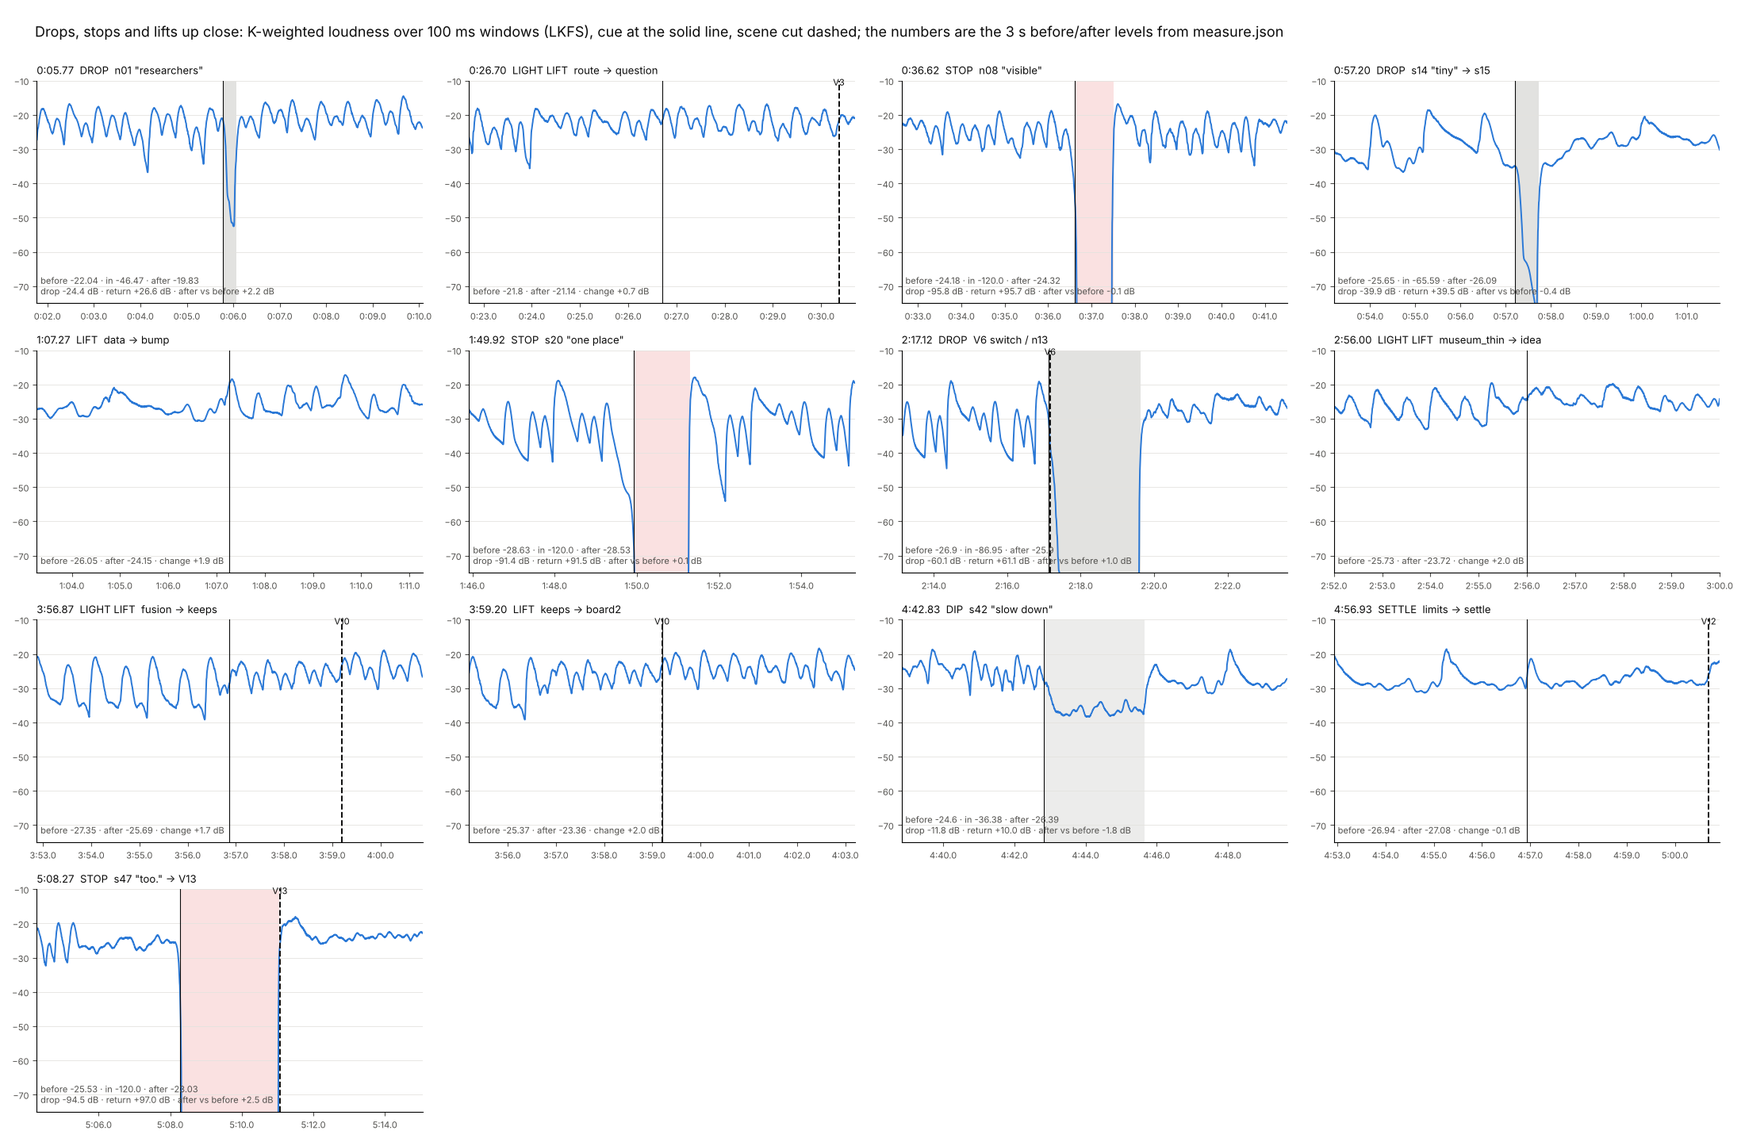
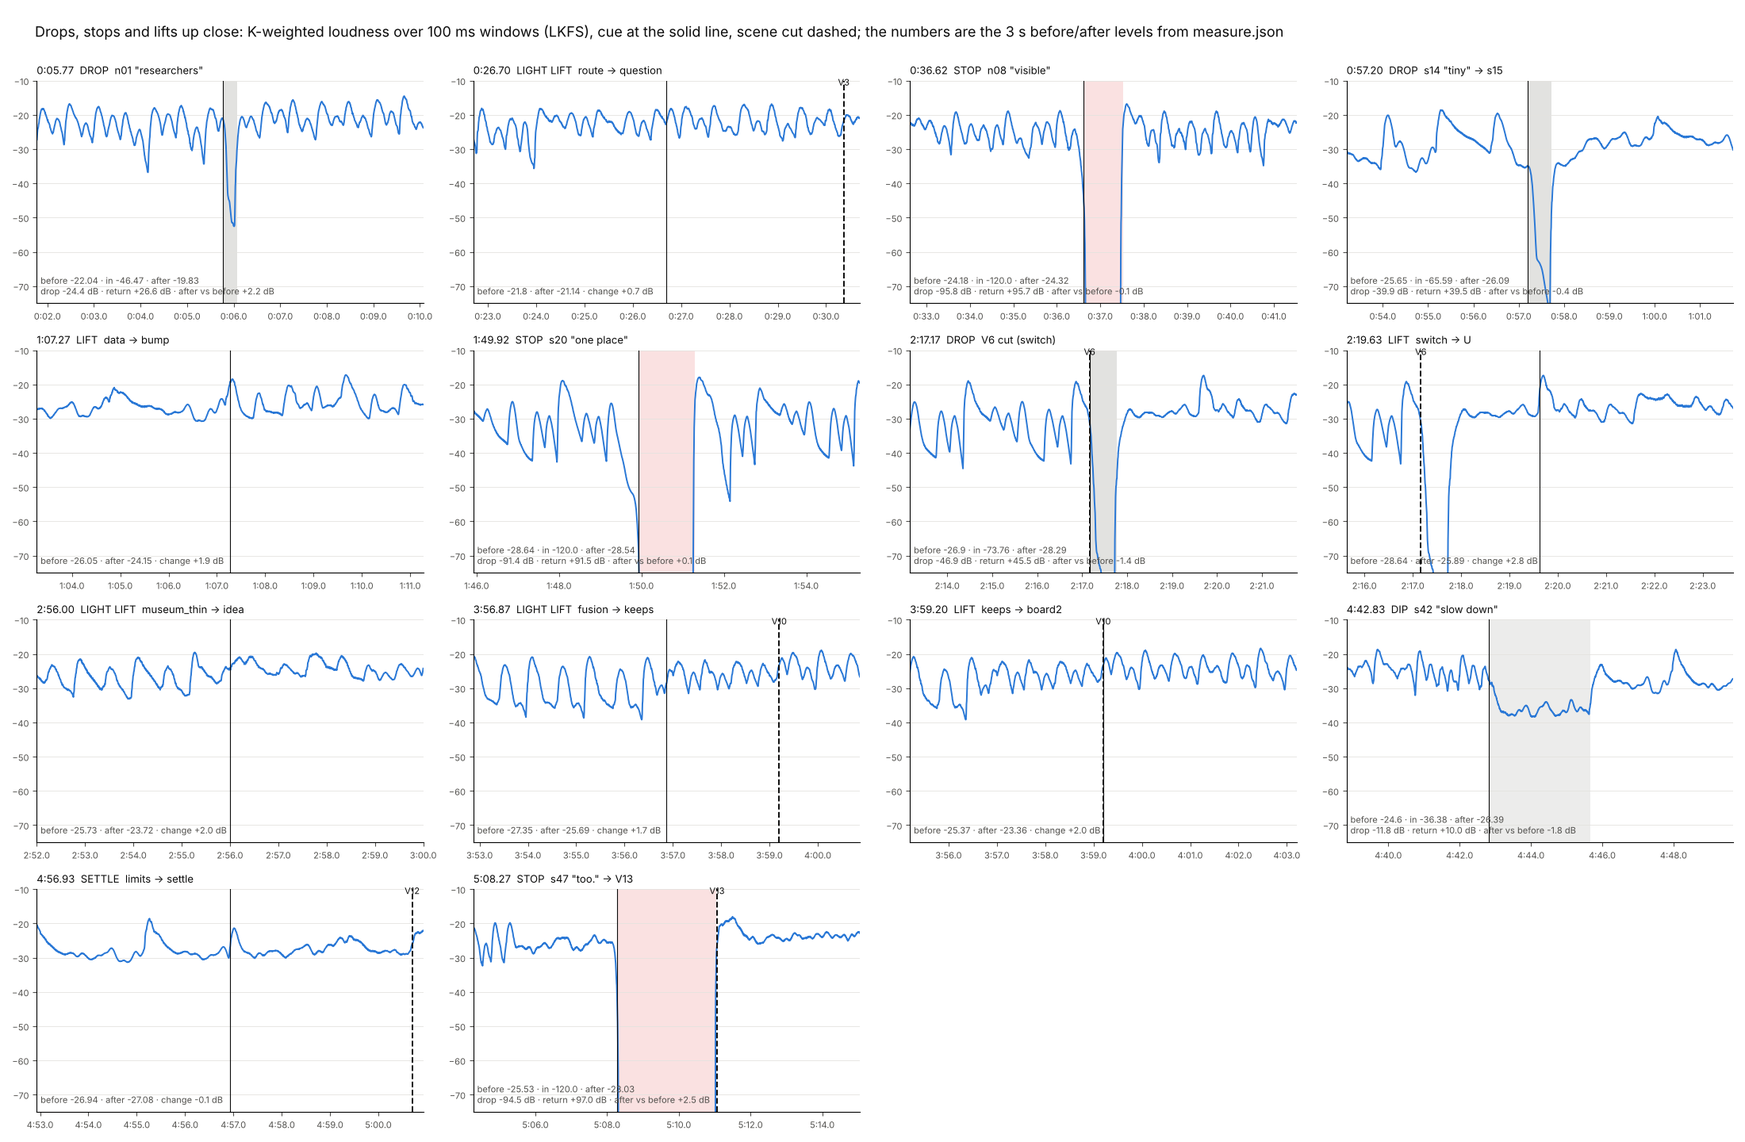
Video 02 v2: music bed, V6 switch is now a 0.6 s beat then a soft pad under n13 (U lift +2.75 LU over the pad)
Claude-Session: https://claude.ai/code/session_01NE6GWDq3cpF8KAJ9JYU8ZS

diff --git a/Future_Got_Weird/Video_02/tools/make_music_v02v2.py b/Future_Got_Weird/Video_02/tools/make_music_v02v2.py
@@ -13,7 +13,8 @@ lines of v2/SHOTPLAN_V2.md and the music paragraph of v2/REVISION_BRIEF.md.
   B  V3-V4   the pulse continues, lighter; complete stop for the duck on "visible", resumes on s11; thins under s14;
              a short drop from "tiny" into "This is real data", a modest lift on "zoom in to see", quiet under s16
   C  V5-V6   the quietest bed: clockwork-light, a small tick layer per arc; full stop for "one place" (J3b), resumes on
-             s21; near-silence on the switch ("And here's a real one."), a modest lift as the U resolves (s37 + hold)
+             s21; a near-silent beat (0.6 s) on the V6 switch, then a soft held pad under n13 ("And here's a real
+             one."), and a modest lift as the U resolves (s37 + hold)
   D  V7      a brisker variation of the pulse (Bb major, walking bass, 16th pickups); thins under s31; warm on n16
   E  V8-V9   a quieter bed under the fusion explanation; a small lift on "keeps up instead of smearing"
   F  V10-V11 a modest lift as the real board returns (n24); quiet under the conditions; a light, cautious mechanical
@@ -124,7 +125,9 @@ SEGMENTS = {
     'geometry': ('C', 'QUIETEST: clockwork-light marimba tick-tock, a pizzicato root, long bass; + a soft hat tick layer at '
                       'the first arc, + marimba off-beat pings at the second; FULL STOP for "one place", resumes on s21',
                  -8.0, 'bed'),
-    'hush_c': ('C', 'near-silence on the switch ("And here\'s a real one.")', None, 'drop'),
+    'hush_c': ('C', 'a near-silent beat (0.6 s) on the V6 switch', None, 'drop'),
+    'switch': ('C', 'a soft held Em9 pad under n13 "And here\'s a real one." (strings, one vibes note, low bass), a little '
+                    'under the C bed', -8.25, 'pad'),
     'U': ('C', 'MODEST LIFT as the U resolves: Cmaj7 -> Dsus -> Gadd9 on "U", guitar arpeggios, strings, vibes, tick; held '
                'through the hold into the museum', -5.5, 'lift'),
     'museum': ('D', 'brisker variation of the pulse (Bb major): walking bass, pizzicato 8ths, marimba 16th pickups, shaker '
@@ -148,7 +151,8 @@ SEGMENTS = {
                      'Dadd9), fades to exactly zero at the last sample', -2.5, 'bed'),
 }
 # reveal lifts: (lift, bed it rises from, bed after it or None when the next section starts)
-LIFTS = [('board', 'pulse', 'route'), ('bump', 'data', 'clue'), ('U', 'geometry', None), ('board2', 'keeps', 'conditions')]
+# (the U also rises +2.5 LU over the C bed it follows, reported as 'also over')
+LIFTS = [('board', 'pulse', 'route'), ('bump', 'data', 'clue'), ('U', 'switch', None, 'geometry'), ('board2', 'keeps', 'conditions')]
 LIGHT_LIFTS = [('question', 'route'), ('idea', 'museum_thin'), ('keeps', 'fusion')]
 SECTIONS = {'A': ('V1', 'V2'), 'B': ('V3', 'V4'), 'C': ('V5', 'V6'), 'D': ('V7', 'V7'), 'E': ('V8', 'V9'),
             'F': ('V10', 'V11'), 'G': ('V12', 'V13')}
@@ -263,7 +267,8 @@ def plan(tl):
     for v in sc:
         cue[v] = S(v)
     hb_a = min(max(cue['tiny'], cue['s15'] - 0.8), cue['s15'] - 0.3)   # drop from "tiny" (0.3-0.8 s long)
-    hc_a = min(S('V6'), cue['n13']) - 0.05                             # near-silence from the switch
+    hc_a = S('V6')                                                     # a near-silent beat from the switch...
+    hc_b = min(hc_a + BEAT, cue['s37'] - 0.5)                          # ...then a soft pad under n13 until s37
     dip_a = cue['slow'] - 0.2
     seg_bounds = [
         ('pulse', 0.0, cue['researchers'] - 0.3),
@@ -278,7 +283,8 @@ def plan(tl):
         ('bump', cue['zoom'], cue['s16']),
         ('clue', cue['s16'], S('V5')),
         ('geometry', S('V5'), hc_a),
-        ('hush_c', hc_a, cue['s37']),
+        ('hush_c', hc_a, hc_b),
+        ('switch', hc_b, cue['s37']),
         ('U', cue['s37'], S('V7')),
         ('museum', S('V7'), cue['s31']),
         ('museum_thin', cue['s31'], cue['idea']),
@@ -311,8 +317,9 @@ def plan(tl):
          'cue': 's14 "tiny" -> s15', 'label': 'B: short drop from "tiny" into "This is real data" (s15), soft re-entry'},
         {'id': 'j3b', 'kind': 'stop', 'a': cue['one_place'] - 0.25, 'b': cue['s21'] - 0.1, 'cue': 's20 "one place"',
          'label': 'C: full stop for "one place" (s20, J3b), resumes on s21'},
-        {'id': 'hush_c', 'kind': 'drop', 'a': hc_a, 'b': cue['s37'], 'depth_db': -22.0, 'down_s': 0.25, 'up_s': 0.4,
-         'cue': 'V6 switch / n13', 'label': 'C: near-silence on the switch, "And here\'s a real one." (n13); lift on s37'},
+        {'id': 'hush_c', 'kind': 'drop', 'a': hc_a, 'b': hc_b, 'depth_db': -22.0, 'down_s': 0.1, 'up_s': 0.3,
+         'cue': 'V6 cut (switch)', 'label': 'C: a near-silent beat (0.6 s) on the V6 switch, then a soft held pad under n13 '
+         '"And here\'s a real one."; the U lift starts on s37'},
         {'id': 'brake', 'kind': 'dip', 'a': dip_a, 'b': cue['s43'], 'depth_db': -8.0, 'down_s': 0.3, 'up_s': 0.3,
          'cue': 's42 "slow down"', 'label': 'F: the groove brakes on "slow down" (s42): held Fmaj7 at -8 dB until s43'},
         {'id': 'j4', 'kind': 'stop', 'a': cue['too'], 'b': S('V13') - 0.02, 'cue': 's47 "too." -> V13',
@@ -332,6 +339,7 @@ def plan(tl):
     pts.append((u, 'Gadd9'))
     overrides = {
         'U': pts,
+        'switch': [(hc_b, 'Em9')],
         'brake': [(dip_a, 'Fmaj7')],
         'settle': [(cue['n30'], 'Gm9'), (cue['not_safety'], 'Dm9')],
         'hold': [(cue['s47'], 'A7sus')],
@@ -612,6 +620,11 @@ def compose(P):
         elif name == 'limits':
             add('strings', t0, d + 0.05, up[0], 22)
             add('strings', t0, d + 0.05, up[2], 20)
+        elif name == 'switch':   # n13: a soft held pad between the beat on the cut and the U lift
+            for jj, v in ((0, 24), (2, 22), (3, 22)):
+                add('strings', t0, d + 0.05, up[jj], v)
+            add('vibes', t0 + 0.05, d, up[3] + 12, 16)
+            add('bass', t0, d, root, 24)
 
     # ---- a new segment's chord sounds on its cue: when the cue falls between bar lines, the bass takes the new root there
     # (the grid's own bass waits for the next beat or bar), so the music carries across every cut
@@ -823,7 +836,7 @@ def eq(name, x):
 
 # ------------------------------------------------------------------------------------------------------------ dynamics
 def seg_ramp(prev_db, cur_db, name):
-    if SEGMENTS[name][3] in ('lift', 'light lift') or cur_db > prev_db:
+    if SEGMENTS[name][3] in ('lift', 'light lift', 'pad') or cur_db > prev_db:
         return 0.3
     return 0.8
 
@@ -1029,12 +1042,13 @@ def measure(P, bed, meter, ev, scale_db, seg_db, ramps, stem_info, tl):
                               'gain_db': None if seg_db[idx] is None else round(seg_db[idx] + scale_db, 2),
                               'entry_ramp_s': round(ramps.get(idx, 0.0), 2)})
     m['lifts'] = []
-    for lift, before, after in LIFTS:
+    for lift, before, after, *also in LIFTS:
         d1 = round(lvl[lift] - lvl[before], 2)
         d2 = round(lvl[lift] - lvl[after], 2) if after else None
-        ok = LIFT_LU[0] - 0.05 <= d1 <= LIFT_LU[1] + 0.05 and (d2 is None or LIFT_LU[0] - 0.05 <= d2 <= LIFT_LU[1] + 0.05)
+        d3 = round(lvl[lift] - lvl[also[0]], 2) if also else None
+        ok = all(d is None or LIFT_LU[0] - 0.05 <= d <= LIFT_LU[1] + 0.05 for d in (d1, d2, d3))
         m['lifts'].append({'lift': lift, 'over': before, 'over_lu': d1, 'then': after, 'over_next_lu': d2,
-                           'within_1.5_to_3_LU': ok})
+                           'also_over': also[0] if also else None, 'also_over_lu': d3, 'within_1.5_to_3_LU': ok})
     m['light_lifts'] = [{'lift': lf, 'over': b, 'over_lu': round(lvl[lf] - lvl[b], 2)} for lf, b in LIGHT_LIFTS]
     # every cue: the bed just before and just after (ungated K-weighted, up to 3 s, clear of the ramps)
     cues = []
@@ -1292,8 +1306,13 @@ def write_notes(P, m, plan_out):
           're-entry ramps, relative to the reference. Levels are set by calibration (pyloudnorm, iterated on the gained bed).', '',
           '## Lifts', '', '| Lift | Over the bed before | LU | Over the bed after | LU | 1.5-3 LU |', '|---|---|---|---|---|---|']
     for x in m['lifts']:
-        L.append(f"| {x['lift']} | {x['over']} | {x['over_lu']:+.2f} | {x['then'] or '(next section)'} | "
-                 f"{'—' if x['over_next_lu'] is None else f'{x['over_next_lu']:+.2f}'} | {'yes' if x['within_1.5_to_3_LU'] else 'NO'} |")
+        after_txt = x['then'] or '(next section)'
+        after_lu = '—' if x['over_next_lu'] is None else f"{x['over_next_lu']:+.2f}"
+        if x.get('also_over'):
+            after_txt += f"; also over {x['also_over']}"
+            after_lu += f"; {x['also_over_lu']:+.2f}"
+        L.append(f"| {x['lift']} | {x['over']} | {x['over_lu']:+.2f} | {after_txt} | {after_lu} | "
+                 f"{'yes' if x['within_1.5_to_3_LU'] else 'NO'} |")
     for x in m['light_lifts']:
         L.append(f"| {x['lift']} (light) | {x['over']} | {x['over_lu']:+.2f} | | | |")
     L += ['', '## Drops, stops, dips and every cue', '',
@@ -1312,7 +1331,7 @@ def write_notes(P, m, plan_out):
             L.append(f"| {f(c['at'])} | {c['cue']} | {c['kind']} | {c['before_lkfs']} | | {c['after_lkfs']} | "
                      f"{'—' if c['change_db'] is None else f'{c['change_db']:+.1f}'} |")
     L += ['', 'drop = no new notes, the bed down 20-22 dB with a short down-ramp, then a re-entry ramp (0.12 s for the board '
-          'lift on "researchers", 0.8 s into s15, 0.4 s into the U); stop = notes released, the bed muted with an 80 ms ramp '
+          'lift on "researchers", 0.8 s into s15, 0.3 s into the n13 pad); stop = notes released, the bed muted with an 80 ms ramp '
           '(digital silence), resuming on the cue with the bass and pizzicato root; dip = the groove stops, one held chord '
           'at -8 dB.', '',
           '## Scene cuts', '', 'The pulse runs on one grid and every new segment\'s chord starts on its cue, so the music '
@@ -1336,7 +1355,8 @@ def write_notes(P, m, plan_out):
           's02 "sensor", n01 "researchers" (the real board), n09 "timing", s15 "zoom", s37 "U", the board\'s return (V10) '
           'and after the last word.',
           '- **Clockwork-light** (C): a marimba tick-tock and a pizzicato root; a hat tick from the first arc (s19), marimba '
-          'off-beat pings from the second (s20); Cmaj7 -> Dsus -> Gadd9 as the U resolves.',
+          'off-beat pings from the second (s20); a near-silent beat on the V6 switch, a soft held Em9 pad under n13, then '
+          'Cmaj7 -> Dsus -> Gadd9 as the U resolves.',
           '- **Museum** (D): the pulse as a walk in Bb major with 16th pickups; the v1 clarinet line answered by bassoon.',
           '- **Warehouse** (F): v1\'s cautious A-minor groove; it brakes to a held Fmaj7 on "slow down".',
           '- **Ending** (G): held A7sus under s47, digital silence for the J4 beat, then Dadd9 - Gmaj7/D - Dadd9 with harp.', '',
@@ -1380,7 +1400,7 @@ def segment_cue_names(P):
     c = {
         'pulse': 'frame 1', 'hush_a': 'n01 "researchers" - 0.3 s', 'board': 'n01 "researchers"', 'route': 'V2 cut',
         'question': 'n06 start', 'puzzle': 'V3 cut', 'thin': 'V4 cut', 'hush_b': 's14 "tiny"', 'data': 's15 start',
-        'bump': 's15 "zoom"', 'clue': 's16 start', 'geometry': 'V5 cut', 'hush_c': 'V6 cut (switch)', 'U': 's37 start',
+        'bump': 's15 "zoom"', 'clue': 's16 start', 'geometry': 'V5 cut', 'hush_c': 'V6 cut (switch)', 'switch': 'V6 cut + 0.6 s (under n13)', 'U': 's37 start',
         'museum': 'V7 cut', 'museum_thin': 's31 start', 'idea': 'n16 start', 'small': 'V8 cut', 'fusion': 'V9 cut',
         'keeps': 'n23 "keeps"', 'board2': 'V10 cut (n24)', 'conditions': 'n25 start', 'warehouse': 'V11 cut',
         'brake': 's42 "slow" - 0.2 s', 'limits': 's43 start', 'settle': 'n30 start', 'callback': 'V12 cut',
@@ -1483,7 +1503,9 @@ def main():
     for s in m['segments']:
         print(f"  {s['segment']:12s} {s['from']:7.2f}-{s['to']:7.2f} target {s['target_lu']} measured {s['level_lu']}")
     for x in m['lifts']:
-        print(f"  lift {x['lift']:7s} +{x['over_lu']} over {x['over']}, {x['over_next_lu']} over {x['then']}  ok={x['within_1.5_to_3_LU']}")
+        also = f", {x['also_over_lu']} over {x['also_over']}" if x.get('also_over') else ''
+        print(f"  lift {x['lift']:7s} +{x['over_lu']} over {x['over']}, {x['over_next_lu']} over {x['then']}{also}"
+              f"  ok={x['within_1.5_to_3_LU']}")
     for c in m['cues']:
         print(f"  cue {c['at']:7.2f} {c['kind']:10s} {c['cue']:28s} before {c['before_lkfs']} "
               + (f"inside {c['inside_lkfs']} after {c['after_lkfs']} silence={c['digital_silence']}" if 'to' in c

diff --git a/Future_Got_Weird/Video_02/audio/music/v02v2/MUSIC_NOTES.md b/Future_Got_Weird/Video_02/audio/music/v02v2/MUSIC_NOTES.md
@@ -12,7 +12,7 @@ Nobody has listened to this bed: this environment cannot play audio. Everything 
 |---|---|---|---|---|---|
 | A | V1-V2 | 0:00.00–0:30.37 | -21.4 LUFS | -1.4 | 0.2% / 0.7% |
 | B | V3-V4 | 0:30.37–1:16.10 | -24.7 LUFS | -4.7 | 0.2% / 2.4% |
-| C | V5-V6 | 1:16.10–2:26.20 | -27.5 LUFS | -7.5 | 0.6% / 3.2% |
+| C | V5-V6 | 1:16.10–2:26.20 | -27.4 LUFS | -7.4 | 0.6% / 3.2% |
 | D | V7 | 2:26.20–3:01.90 | -23.8 LUFS | -3.8 | 1.0% / 3.7% |
 | E | V8-V9 | 3:01.90–3:59.20 | -26.8 LUFS | -6.8 | 0.1% / 1.0% |
 | F | V10-V11 | 3:59.20–5:00.70 | -25.2 LUFS | -5.2 | 0.3% / 2.6% |
@@ -35,8 +35,9 @@ Reference (0 LU) = -20.0 LUFS in the delivered bed; whole bed -24.77 LUFS. Secti
 | data | B | s15 start | 0:57.73–1:07.27 | soft re-entry under s15: a string drone, one pizzicato per bar | -6.00 | -6.00 |
 | bump | B | s15 "zoom" | 1:07.27–1:11.60 | MODEST LIFT as the bump appears ("zoom in to see"): strings, vibes, rising marimba, flash-and-echo tick | -4.00 | -4.00 |
 | clue | B | s16 start | 1:11.60–1:16.10 | quiet under s16 | -5.75 | -5.75 |
-| geometry | C | V5 cut | 1:16.10–2:17.12 | QUIETEST: clockwork-light marimba tick-tock, a pizzicato root, long bass; + a soft hat tick layer at the first arc, + marimba off-beat pings at the second; FULL STOP for "one place", resumes on s21 | -8.00 | -8.00 |
-| hush_c | C | V6 cut (switch) | 2:17.12–2:19.63 | near-silence on the switch ("And here's a real one.") | — | — |
+| geometry | C | V5 cut | 1:16.10–2:17.17 | QUIETEST: clockwork-light marimba tick-tock, a pizzicato root, long bass; + a soft hat tick layer at the first arc, + marimba off-beat pings at the second; FULL STOP for "one place", resumes on s21 | -8.00 | -8.00 |
+| hush_c | C | V6 cut (switch) | 2:17.17–2:17.77 | a near-silent beat (0.6 s) on the V6 switch | — | — |
+| switch | C | V6 cut + 0.6 s (under n13) | 2:17.77–2:19.63 | a soft held Em9 pad under n13 "And here's a real one." (strings, one vibes note, low bass), a little under the C bed | -8.25 | -8.25 |
 | U | C | s37 start | 2:19.63–2:26.20 | MODEST LIFT as the U resolves: Cmaj7 -> Dsus -> Gadd9 on "U", guitar arpeggios, strings, vibes, tick; held through the hold into the museum | -5.50 | -5.50 |
 | museum | D | V7 cut | 2:26.20–2:51.00 | brisker variation of the pulse (Bb major): walking bass, pizzicato 8ths, marimba 16th pickups, shaker 16ths, stately strings; clarinet line answered by bassoon | -3.50 | -3.50 |
 | museum_thin | D | s31 start | 2:51.00–2:56.00 | thins under s31: pizzicato quarters, strings | -5.50 | -5.50 |
@@ -63,7 +64,7 @@ Measured LU: integrated loudness after the segment's entry ramp, outside drop/st
 |---|---|---|---|---|---|
 | board | pulse | +2.25 | route | +2.75 | yes |
 | bump | data | +2.00 | clue | +1.75 | yes |
-| U | geometry | +2.50 | (next section) | — | yes |
+| U | switch | +2.75 | (next section); also over geometry | —; +2.50 | yes |
 | board2 | keeps | +2.00 | conditions | +2.50 | yes |
 | question (light) | route | +1.25 | | | |
 | idea (light) | museum_thin | +1.50 | | | |
@@ -84,10 +85,11 @@ Short-window levels: ungated K-weighted loudness (LKFS, EBU short-term length) o
 | 0:57.20–0:57.73 (0.53 s) | s14 "tiny" -> s15 | drop | -25.65 | -65.59 | -26.09 | in -39.9, back +39.5 |
 | 1:07.27 | data -> bump | lift | -26.05 | | -24.15 | +1.9 |
 | 1:11.60 | bump -> clue | bed | -23.69 | | -25.11 | -1.4 |
-| 1:16.10 | clue -> geometry | bed | -25.9 | | -27.88 | -2.0 |
-| 1:49.92–1:51.30 (1.38 s) | s20 "one place" | stop | -28.63 | digital silence | -28.53 | after vs before +0.1 |
-| 2:17.12–2:19.63 (2.52 s) | V6 switch / n13 | drop | -26.9 | -86.95 | -25.9 | in -60.1, back +61.1 |
-| 2:26.20 | U -> museum | bed | -25.08 | | -24.54 | +0.5 |
+| 1:16.10 | clue -> geometry | bed | -25.9 | | -27.89 | -2.0 |
+| 1:49.92–1:51.30 (1.38 s) | s20 "one place" | stop | -28.64 | digital silence | -28.54 | after vs before +0.1 |
+| 2:17.17–2:17.77 (0.60 s) | V6 cut (switch) | drop | -26.9 | -73.76 | -28.29 | in -46.9, back +45.5 |
+| 2:19.63 | switch -> U | lift | -28.64 | | -25.89 | +2.8 |
+| 2:26.20 | U -> museum | bed | -25.05 | | -24.54 | +0.5 |
 | 2:51.00 | museum -> museum_thin | bed | -23.6 | | -25.44 | -1.8 |
 | 2:56.00 | museum_thin -> idea | light lift | -25.73 | | -23.72 | +2.0 |
 | 3:01.90 | idea -> small | bed | -24.47 | | -25.48 | -1.0 |
@@ -102,7 +104,7 @@ Short-window levels: ungated K-weighted loudness (LKFS, EBU short-term length) o
 | 5:05.27 | callback -> hold | bed | -25.11 | | -25.63 | -0.5 |
 | 5:08.27–5:11.05 (2.78 s) | s47 "too." -> V13 | stop | -25.53 | digital silence | -23.03 | after vs before +2.5 |
 
-drop = no new notes, the bed down 20-22 dB with a short down-ramp, then a re-entry ramp (0.12 s for the board lift on "researchers", 0.8 s into s15, 0.4 s into the U); stop = notes released, the bed muted with an 80 ms ramp (digital silence), resuming on the cue with the bass and pizzicato root; dip = the groove stops, one held chord at -8 dB.
+drop = no new notes, the bed down 20-22 dB with a short down-ramp, then a re-entry ramp (0.12 s for the board lift on "researchers", 0.8 s into s15, 0.3 s into the n13 pad); stop = notes released, the bed muted with an 80 ms ramp (digital silence), resuming on the cue with the bass and pizzicato root; dip = the groove stops, one held chord at -8 dB.
 
 ## Scene cuts
 
@@ -114,7 +116,7 @@ The pulse runs on one grid and every new segment's chord starts on its cue, so t
 | V2->V3 | 0:30.37 | -28.0 dBFS | -23.8 dBFS |  | yes |
 | V3->V4 | 0:50.77 | -36.7 dBFS | -26.5 dBFS |  | yes |
 | V4->V5 | 1:16.10 | -31.9 dBFS | -27.2 dBFS |  | yes |
-| V5->V6 | 2:17.17 | -87.6 dBFS | -32.7 dBFS | hush_c | yes |
+| V5->V6 | 2:17.17 | -87.4 dBFS | -30.7 dBFS | hush_c | yes |
 | V6->V7 | 2:26.20 | -27.0 dBFS | -26.4 dBFS |  | yes |
 | V7->V8 | 3:01.90 | -29.8 dBFS | -25.7 dBFS |  | yes |
 | V8->V9 | 3:21.60 | -36.6 dBFS | -27.7 dBFS |  | yes |
@@ -131,7 +133,7 @@ The resolve starts on the end-screen cut (V13, 5:11.07), under s48; it fades fro
 
 - **Curious pulse** (A, recalled in B, F and G): pizzicato 8ths on the chord (v1's figure, with a sly chromatic step every fourth chord) over a staccato bass on every beat, soft shaker, a soft kick on 1; a bassoon tiptoe in the first two bars, recalled under n31.
 - **Flash and echo**: a glockenspiel tick on D8 (4.7 kHz) and a fainter echo on C8 0.45 s later, only on cues: s02 "sensor", n01 "researchers" (the real board), n09 "timing", s15 "zoom", s37 "U", the board's return (V10) and after the last word.
-- **Clockwork-light** (C): a marimba tick-tock and a pizzicato root; a hat tick from the first arc (s19), marimba off-beat pings from the second (s20); Cmaj7 -> Dsus -> Gadd9 as the U resolves.
+- **Clockwork-light** (C): a marimba tick-tock and a pizzicato root; a hat tick from the first arc (s19), marimba off-beat pings from the second (s20); a near-silent beat on the V6 switch, a soft held Em9 pad under n13, then Cmaj7 -> Dsus -> Gadd9 as the U resolves.
 - **Museum** (D): the pulse as a walk in Bb major with 16th pickups; the v1 clarinet line answered by bassoon.
 - **Warehouse** (F): v1's cautious A-minor groove; it brakes to a held Fmaj7 on "slow down".
 - **Ending** (G): held A7sus under s47, digital silence for the J4 beat, then Dadd9 - Gmaj7/D - Dadd9 with harp.
@@ -142,10 +144,10 @@ pizzicato strings (45), marimba (12), vibraphone (11), glockenspiel (9, ticks on
 
 ## Speech band
 
-Melodic notes at or below MIDI 79 (B5 = 988 Hz is the ceiling); ticks on 108, 110 (above 4 kHz); per-instrument EQ cuts 2.2-2.5 kHz and low-passes the leads (the sustained strings at 1.1 kHz, 4th order). Energy in 1-4 kHz: 0.4% of the whole bed; per section above; per stem: pizz 0.1%, marimba 1.4%, vibes 0.0%, glock 0.0%, guitar 1.0%, harp 0.1%, bass 0.0%, bassoon 1.3%, clarinet 7.5%, strings 1.5%, drums 0.3%.
+Melodic notes at or below MIDI 79 (B5 = 988 Hz is the ceiling); ticks on 108, 110 (above 4 kHz); per-instrument EQ cuts 2.2-2.5 kHz and low-passes the leads (the sustained strings at 1.1 kHz, 4th order). Energy in 1-4 kHz: 0.4% of the whole bed; per section above; per stem: pizz 0.1%, marimba 1.4%, vibes 0.0%, glock 0.0%, guitar 0.9%, harp 0.1%, bass 0.0%, bassoon 1.3%, clarinet 7.5%, strings 1.5%, drums 0.3%.
 
 ## Measured
 
-Integrated -24.77 LUFS (unducked); sample peak -6.88 dBFS; true peak -6.87 dBTP (4x); 0 clipped samples; 15410640 samples = timeline durationSeconds 321.055 s (match); narration 15410640 samples; the video's 9632 frames are +11.67 ms from the bed (the bed is already at zero there). Stems sum to the bed within 1.19e-06 (24-bit rounding). SHA-256 of the bed: `3a5671ec1b276e69…`.
+Integrated -24.77 LUFS (unducked); sample peak -6.88 dBFS; true peak -6.87 dBTP (4x); 0 clipped samples; 15410640 samples = timeline durationSeconds 321.055 s (match); narration 15410640 samples; the video's 9632 frames are +11.67 ms from the bed (the bed is already at zero there). Stems sum to the bed within 1.19e-06 (24-bit rounding). SHA-256 of the bed: `406d2ecdaa51a0c2…`.
 
 Re-run (one command; reads every cue from the current timeline): `python3 tools/make_music_v02v2.py`. Mix: `python3 tools/mix_v2.py --music audio/music/v02v2/music_bed.wav`.
